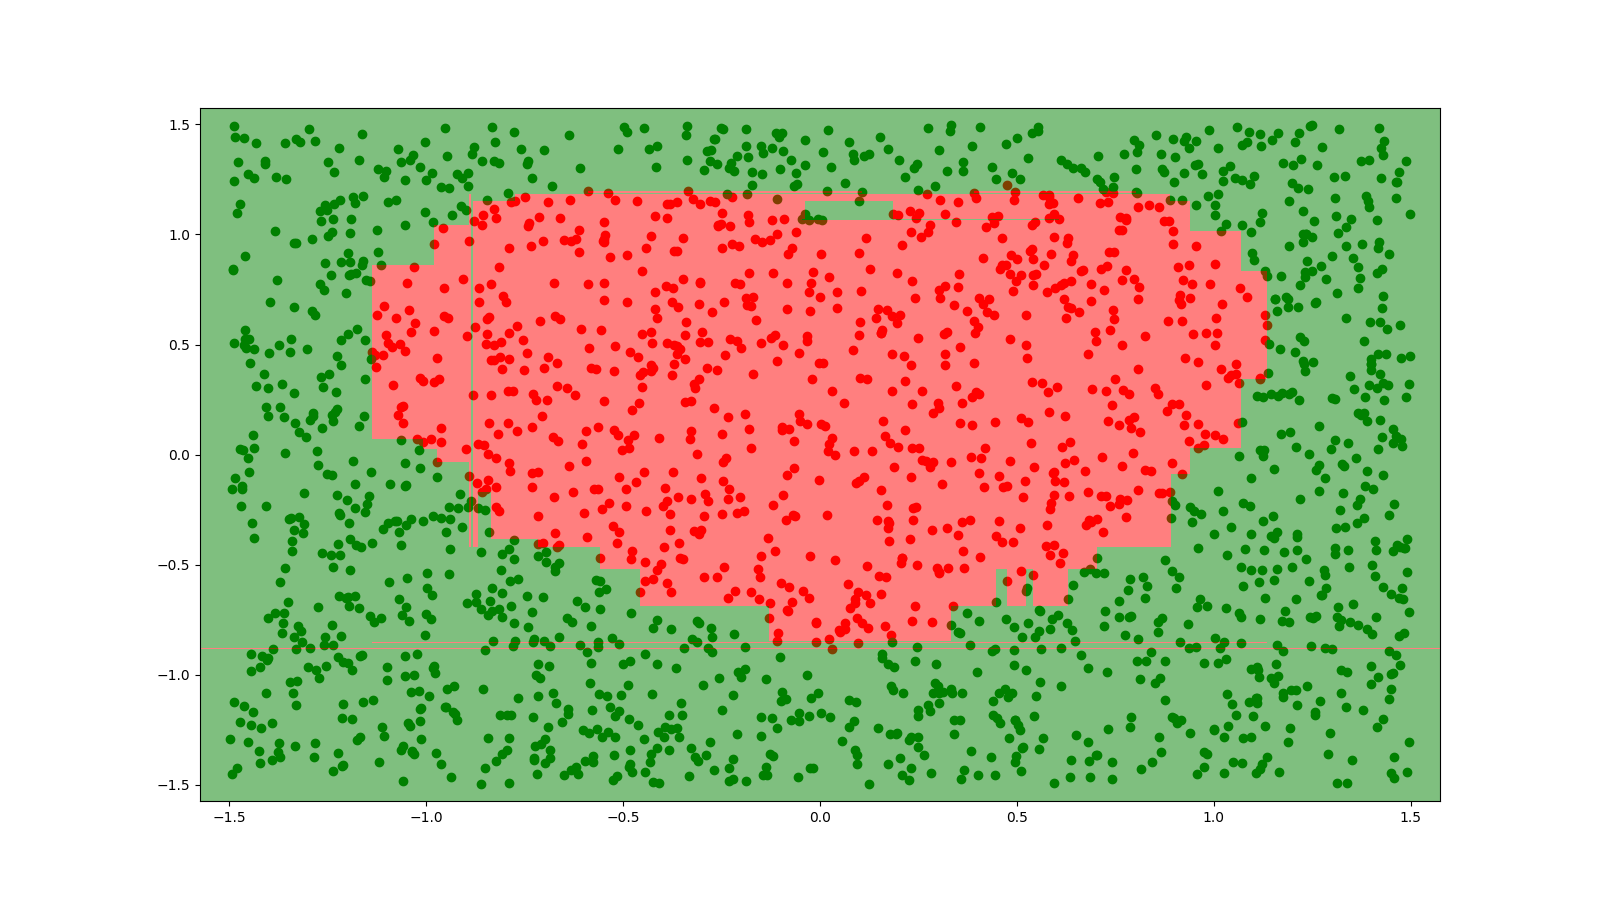
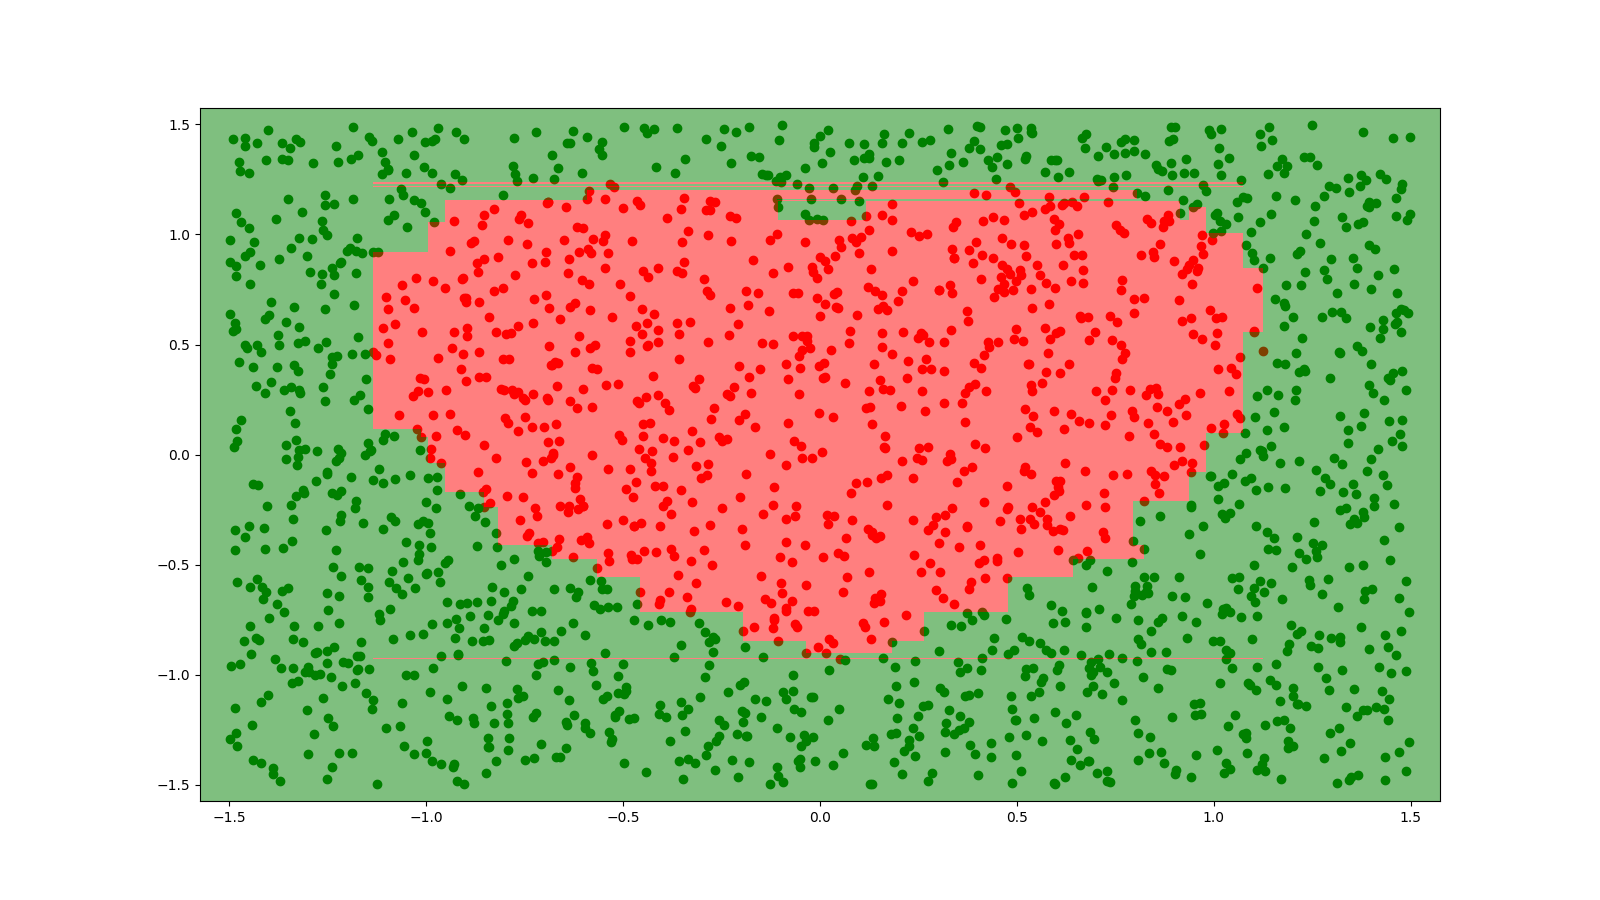
added Sklearn results, and the Q7 results are also updated as a result

Changed region(s): [[0.125, 0.1244, 0.9062, 0.8711]]

diff --git a/HW2/myDT_Q7.py b/HW2/myDT_Q7.py
@@ -7,6 +7,10 @@ import matplotlib.patches as patches
 import copy
 
 
+
+from sklearn import tree
+
+
 ALPHA = 0.5
 
 
@@ -368,6 +372,50 @@ def test_set_error(tree_root, test_set):
 
 
 
+def use_sklearn(training_sets, test_set):
+    print()
+    print()
+    print(" SKlearn output:")
+    print("set name   :   n,   node_count,   err_n")
+    curve_plot_x = []
+    curve_plot_y = []
+    testX = []
+    testY = []
+    for inst in test_set:
+            dp = [inst[0],inst[1]]
+            testX.append(dp)
+            testY.append(inst[2])
+    for i in range(0, 5):
+        train_set_size = int(32 * math.pow(4,i))
+        bundle = training_sets[i]
+        X = []
+        Y = []
+        for inst in bundle:
+            dp = [inst[0],inst[1]]
+            X.append(dp)
+            Y.append(inst[2])
+        sklearn_tree = tree.DecisionTreeClassifier()
+        sklearn_tree = sklearn_tree.fit(X, Y)
+        pred_Y = sklearn_tree.predict(testX)
+        assert(len(pred_Y) == len(testY))
+        correct_count = 0
+        for i in range(0, len(pred_Y)):
+            if pred_Y[i] == testY[i]:
+                correct_count = correct_count + 1
+        err_n = 1 - (correct_count / len(pred_Y))
+        node_count = sklearn_tree.tree_.node_count
+        print("D"+str(train_set_size)+" : "+str(train_set_size)+",    "+str(node_count)+",  "+str(err_n))
+        curve_plot_x.append(train_set_size)
+        curve_plot_y.append(err_n)
+    fig, axes = plt.subplots()
+    fig.set_figheight(9)
+    fig.set_figwidth(16)
+    axes.plot(curve_plot_x, curve_plot_y, linestyle='-', marker='*', color="orange")
+    plt.savefig("Sklearn_learning_cruve.png")
+
+
+
+
 if __name__ == "__main__":
     filename = "Dbig.txt"
     inst_list = LoadData(filename) 
@@ -403,10 +451,10 @@ if __name__ == "__main__":
     fig, axes = plt.subplots()
     fig.set_figheight(9)
     fig.set_figwidth(16)
-    axes.plot(curve_plot_x, curve_plot_y, linestyle=':', marker='*')
+    axes.plot(curve_plot_x, curve_plot_y, linestyle='-', marker='*')
     plt.savefig("Q7_learning_cruve.png")
 
-
+    use_sklearn(training_sets, test_set)
 
     # tree_root = GenerateSubTree(all_instances, 0)
     # print()
